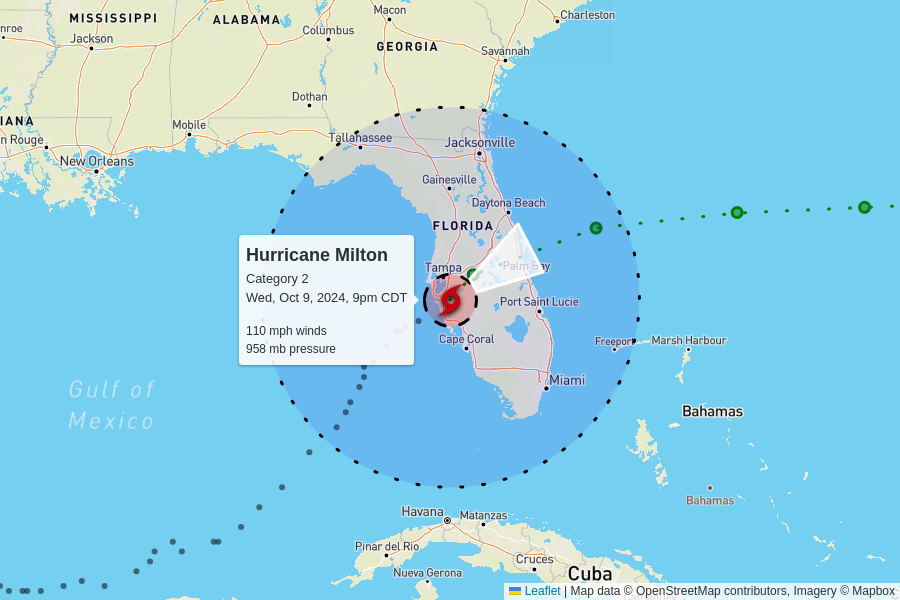
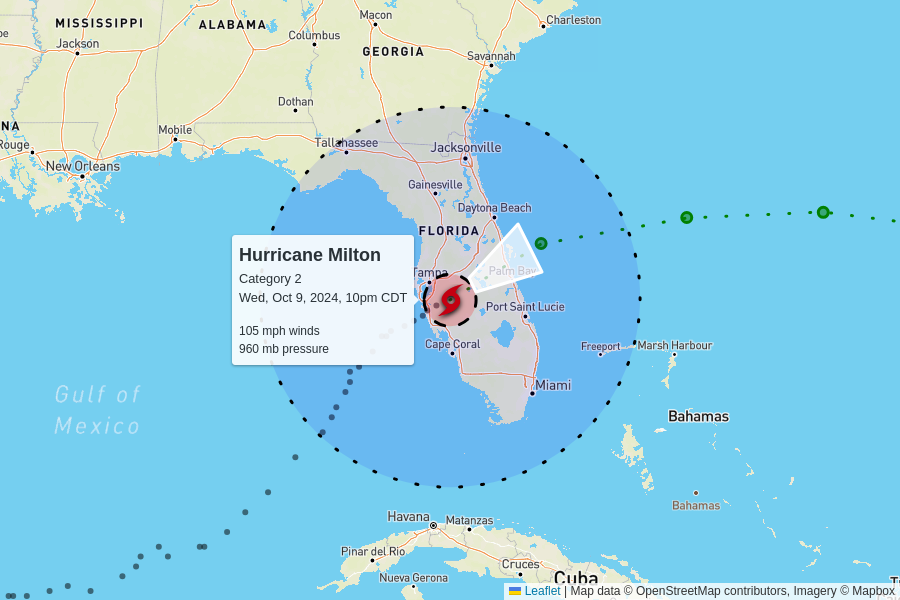
automatic update

diff --git a/docs/index.html b/docs/index.html
@@ -103,8 +103,8 @@
       <tr>
         <td colspan="6" class="storm category-2" >
           <h2>
-            Hurricane Milton - Category 2
-            <p class="updated">last updated <span data-time>2024-10-10T02:00:00.000Z</span></p>
+            Hurricane Leslie - Category 2
+            <p class="updated">last updated <span data-time>2024-10-10T03:00:00.000Z</span></p>
           </h2>
         </td>
       </tr>
@@ -119,8 +119,52 @@
       </tr>
       <tr>
         <td class="spacer"></td>
-        <td>110 mph<br>-5 mph since last update</td>
-        <td>958 mb<br>+2 mb since last update</td>
+        <td>105 mph<br>+15 mph since last update</td>
+        <td>972 mb<br>-10 mb since last update</td>
+        <td>
+          8 mph to the northwest
+          <br/>
+          <span style="display: inline-block; font-size: 1.5em; transform: rotate(315deg);">↑</span>
+        </td>
+        <td><a href="https://raw.githubusercontent.com/mgwalker/atlantic-hurricanes/main/data/csv/AL132024.csv">AL132024.csv</a></td>
+        <td><a href="https://www.nhc.noaa.gov/archive/2024/LESLIE.shtml?">NHC advisories</a></td>
+      </tr>
+      <tr id="storm_AL132024" >
+        <td class="spacer">
+        <td colspan="5">
+          <figure>
+            <img src="AL132024.png">
+            <figcaption>
+              Map data &copy; <a href="https://www.openstreetmap.org/copyright">OpenStreetMap</a> contributors,
+              Imagery &copy; <a href="https://www.mapbox.com/">Mapbox</a> |
+              <a href="https://www.mapbox.com/map-feedback/" target="_blank">Improve this map</a>
+            </figcaption>
+          </figure>
+        </td>
+      </tr>
+      
+
+      <tr>
+        <td colspan="6" class="storm category-2" >
+          <h2>
+            Hurricane Milton - Category 2
+            <p class="updated">last updated <span data-time>2024-10-10T03:00:00.000Z</span></p>
+          </h2>
+        </td>
+      </tr>
+      
+      <tr>
+        <th class="spacer"></th>
+        <th>wind speed</th>
+        <th>central pressure</th>
+        <th>movement</th>
+        <th>data (CSV)</th>
+        <th>National Hurricane Center</th>
+      </tr>
+      <tr>
+        <td class="spacer"></td>
+        <td>105 mph<br>-5 mph since last update</td>
+        <td>960 mb<br>+2 mb since last update</td>
         <td>
           16 mph to the east-northeast
           <br/>
@@ -134,50 +178,6 @@
         <td colspan="5">
           <figure>
             <img src="AL142024.png">
-            <figcaption>
-              Map data &copy; <a href="https://www.openstreetmap.org/copyright">OpenStreetMap</a> contributors,
-              Imagery &copy; <a href="https://www.mapbox.com/">Mapbox</a> |
-              <a href="https://www.mapbox.com/map-feedback/" target="_blank">Improve this map</a>
-            </figcaption>
-          </figure>
-        </td>
-      </tr>
-      
-
-      <tr>
-        <td colspan="6" class="storm category-1" >
-          <h2>
-            Hurricane Leslie - Category 1
-            <p class="updated">last updated <span data-time>2024-10-09T21:00:00.000Z</span></p>
-          </h2>
-        </td>
-      </tr>
-      
-      <tr>
-        <th class="spacer"></th>
-        <th>wind speed</th>
-        <th>central pressure</th>
-        <th>movement</th>
-        <th>data (CSV)</th>
-        <th>National Hurricane Center</th>
-      </tr>
-      <tr>
-        <td class="spacer"></td>
-        <td>90 mph<br>+5 mph since last update</td>
-        <td>982 mb<br>-3 mb since last update</td>
-        <td>
-          9 mph to the northwest
-          <br/>
-          <span style="display: inline-block; font-size: 1.5em; transform: rotate(310deg);">↑</span>
-        </td>
-        <td><a href="https://raw.githubusercontent.com/mgwalker/atlantic-hurricanes/main/data/csv/AL132024.csv">AL132024.csv</a></td>
-        <td><a href="https://www.nhc.noaa.gov/archive/2024/LESLIE.shtml?">NHC advisories</a></td>
-      </tr>
-      <tr id="storm_AL132024" >
-        <td class="spacer">
-        <td colspan="5">
-          <figure>
-            <img src="AL132024.png">
             <figcaption>
               Map data &copy; <a href="https://www.openstreetmap.org/copyright">OpenStreetMap</a> contributors,
               Imagery &copy; <a href="https://www.mapbox.com/">Mapbox</a> |
